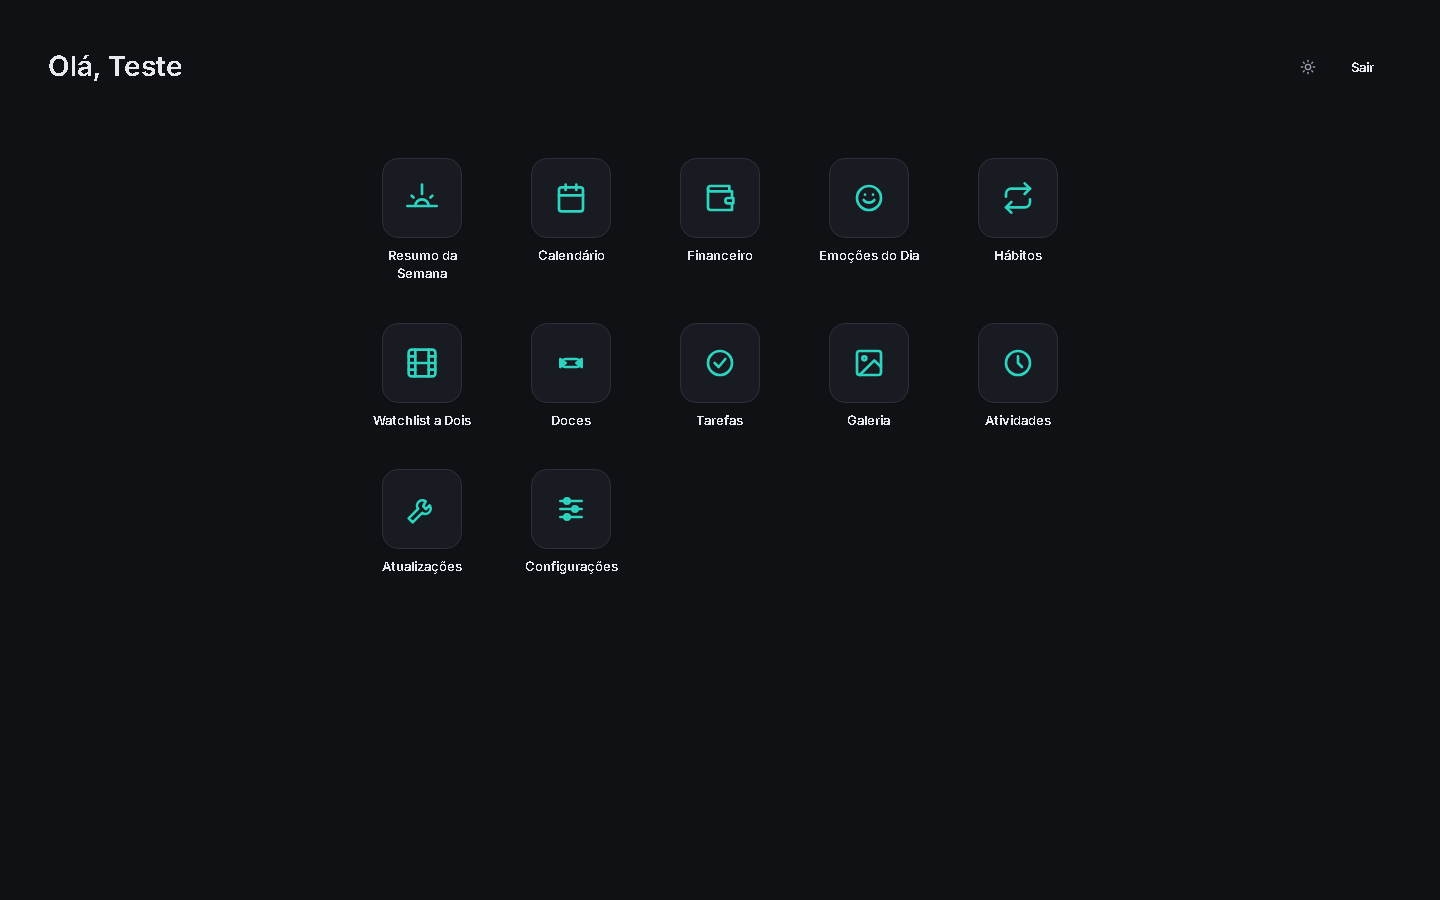
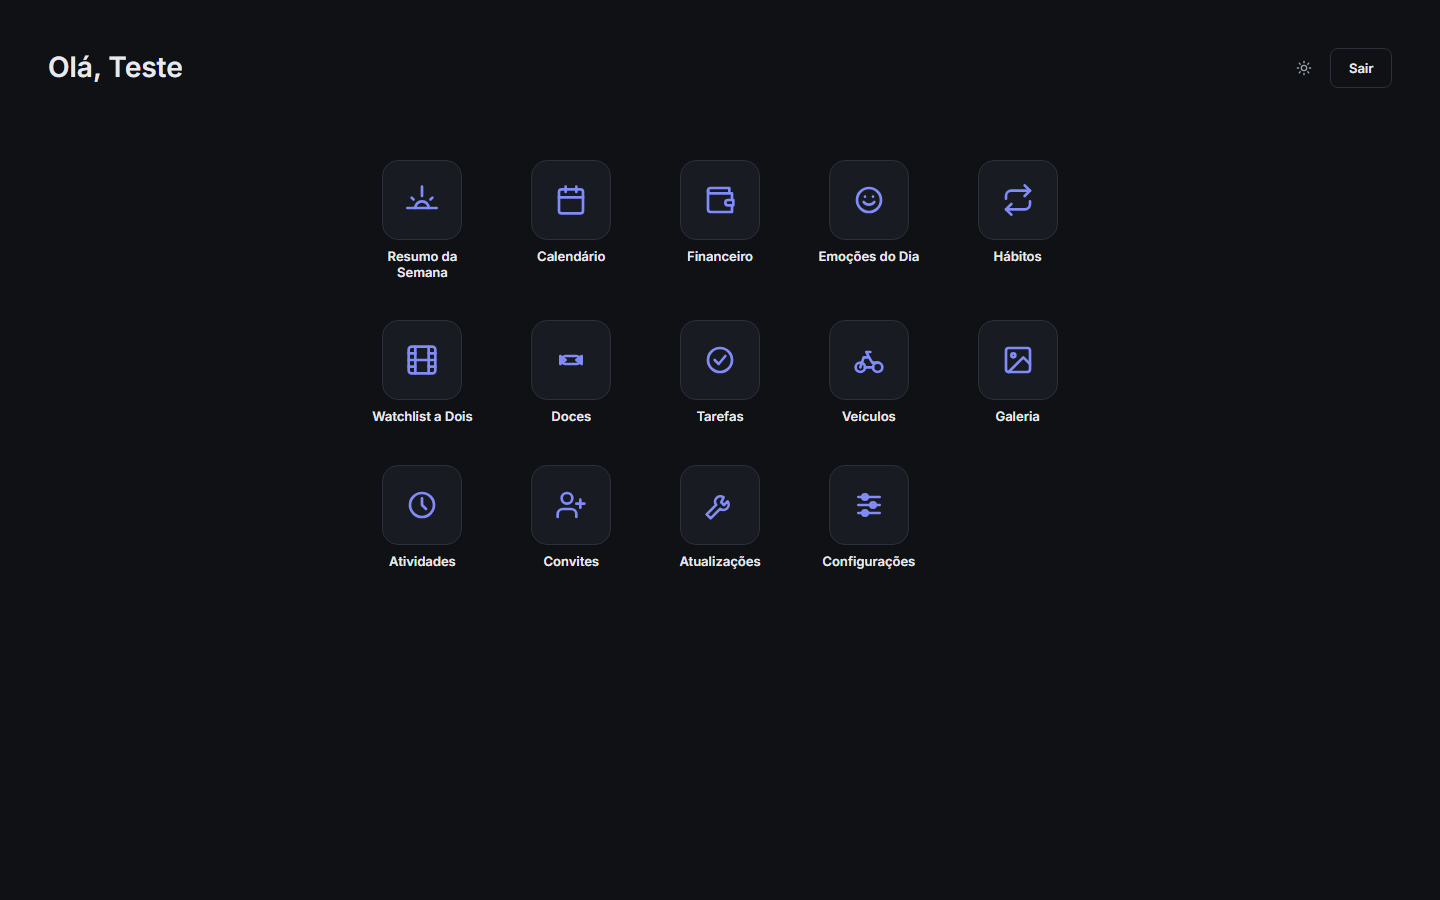
docs: refaz o README com prints atualizados de todas as telas

diff --git a/README.md b/README.md
@@ -21,38 +21,63 @@ Quer só dar uma olhada sem mexer nos dados reais? Use a conta de teste, que fic
 
 <table>
   <tr>
-    <td><img src="docs/screenshots/login.png" alt="Tela de login" width="400"/><br/><sub>Login</sub></td>
-    <td><img src="docs/screenshots/lobby.png" alt="Lobby com atalhos para cada módulo" width="400"/><br/><sub>Lobby</sub></td>
+    <td align="center"><img src="docs/screenshots/login.png" alt="Tela de login com foto do casal" width="420"/><br/><sub><b>Login</b></sub></td>
+    <td align="center"><img src="docs/screenshots/lobby.png" alt="Lobby com atalhos para cada módulo" width="420"/><br/><sub><b>Lobby</b></sub></td>
   </tr>
   <tr>
-    <td><img src="docs/screenshots/calendario.png" alt="Calendário mensal com eventos" width="400"/><br/><sub>Calendário</sub></td>
-    <td><img src="docs/screenshots/financeiro.png" alt="Painel financeiro com resumo do mês" width="400"/><br/><sub>Financeiro</sub></td>
+    <td align="center"><img src="docs/screenshots/calendario.png" alt="Calendário mensal com eventos" width="420"/><br/><sub><b>Calendário</b></sub></td>
+    <td align="center"><img src="docs/screenshots/resumo.png" alt="Resumo semanal do casal" width="420"/><br/><sub><b>Resumo da Semana</b></sub></td>
   </tr>
   <tr>
-    <td><img src="docs/screenshots/habitos.png" alt="Lista de hábitos com check-in" width="400"/><br/><sub>Hábitos</sub></td>
-    <td><img src="docs/screenshots/tarefas.png" alt="Lista de tarefas do dia" width="400"/><br/><sub>Tarefas</sub></td>
+    <td align="center"><img src="docs/screenshots/financeiro.png" alt="Painel financeiro com resumo do mês" width="420"/><br/><sub><b>Financeiro</b></sub></td>
+    <td align="center"><img src="docs/screenshots/veiculos.png" alt="Gestão de veículos, manutenções e pagamentos" width="420"/><br/><sub><b>Veículos</b></sub></td>
   </tr>
   <tr>
-    <td><img src="docs/screenshots/emocoes.png" alt="Registro de emoções do dia" width="400"/><br/><sub>Emoções do Dia</sub></td>
-    <td><img src="docs/screenshots/watchlist.png" alt="Watchlist de filmes, séries e jogos" width="400"/><br/><sub>Watchlist a Dois</sub></td>
+    <td align="center"><img src="docs/screenshots/habitos.png" alt="Hábitos com streak e check-in" width="420"/><br/><sub><b>Hábitos</b></sub></td>
+    <td align="center"><img src="docs/screenshots/tarefas.png" alt="Tarefas em estilo kanban" width="420"/><br/><sub><b>Tarefas</b></sub></td>
+  </tr>
+  <tr>
+    <td align="center"><img src="docs/screenshots/emocoes.png" alt="Registro de emoções do dia" width="420"/><br/><sub><b>Emoções do Dia</b></sub></td>
+    <td align="center"><img src="docs/screenshots/watchlist.png" alt="Watchlist de filmes, séries e jogos" width="420"/><br/><sub><b>Watchlist a Dois</b></sub></td>
+  </tr>
+  <tr>
+    <td align="center"><img src="docs/screenshots/doces.png" alt="Ranking e balança de doces" width="420"/><br/><sub><b>Doces</b></sub></td>
+    <td align="center"><img src="docs/screenshots/galeria.png" alt="Galeria de fotos compartilhadas" width="420"/><br/><sub><b>Galeria</b></sub></td>
+  </tr>
+  <tr>
+    <td align="center"><img src="docs/screenshots/configuracoes.png" alt="Preferências, tema e notificações" width="420"/><br/><sub><b>Configurações</b></sub></td>
+    <td></td>
   </tr>
 </table>
+
+### 📱 No celular
+
+<p align="center">
+  <img src="docs/screenshots/mobile-lobby.png" alt="Lobby no celular" width="240"/>
+  &nbsp;&nbsp;
+  <img src="docs/screenshots/mobile-calendario.png" alt="Calendário no celular" width="240"/>
+</p>
+
+> Os prints são da conta de teste, então alguns módulos aparecem vazios.
 
 ## ✨ Funcionalidades
 
 - **Calendário e eventos** — criação, edição, anexos (fotos/arquivos via Cloudinary)
-- **Financeiro** — categorias, lançamentos, metas, reembolsos, simulações e importação de dados
-- **Hábitos** — acompanhamento com sequência (streak)
-- **Tarefas** — listas com progresso
-- **Humor** — registro diário de emoções
+- **Resumo da Semana** — visão consolidada da semana do casal
+- **Financeiro** — orçamento compartilhado, lançamentos, *Pagar Contas*, carteira de reembolsos, objetivos, comodidades, simulações, importação de planilha e fechamento de mês
+- **Hábitos** — streak, check-in com foto, hábitos em conjunto, congelamento, reações e histórico
+- **Tarefas** — sub-listas por período, arrastar estilo kanban (inclusive no toque) e reset diário
+- **Emoções do Dia** — registro diário de emoções com motivos
 - **Watchlist** — filmes, séries e jogos (busca de capas via TMDB/RAWG)
-- **Doces** — registro de consumo (funcionalidade lúdica do casal)
+- **Doces** — registro de consumo com ranking e "balança da justiça" (funcionalidade lúdica do casal)
+- **Veículos** — cadastro com foto, odômetro, manutenção recorrente com checklist e controle de pagamentos
 - **Galeria** — fotos compartilhadas
 - **Convites** — convite de parceiro(a) para o mesmo espaço (team)
 - **Log de atividades** — histórico do que foi feito no app
 - **Solicitações de atualização** — pedidos de mudança com geração de título/descrição via IA (Gemini)
 - **Notificações push** — Web Push e Firebase Cloud Messaging (app Android)
-- **App Android** — empacotado com Capacitor
+- **Tema claro/escuro** — com paletas de cor configuráveis
+- **App Android** — empacotado com Capacitor, com suporte ao botão físico de voltar
 
 ## 🛠 Stack técnica
 
